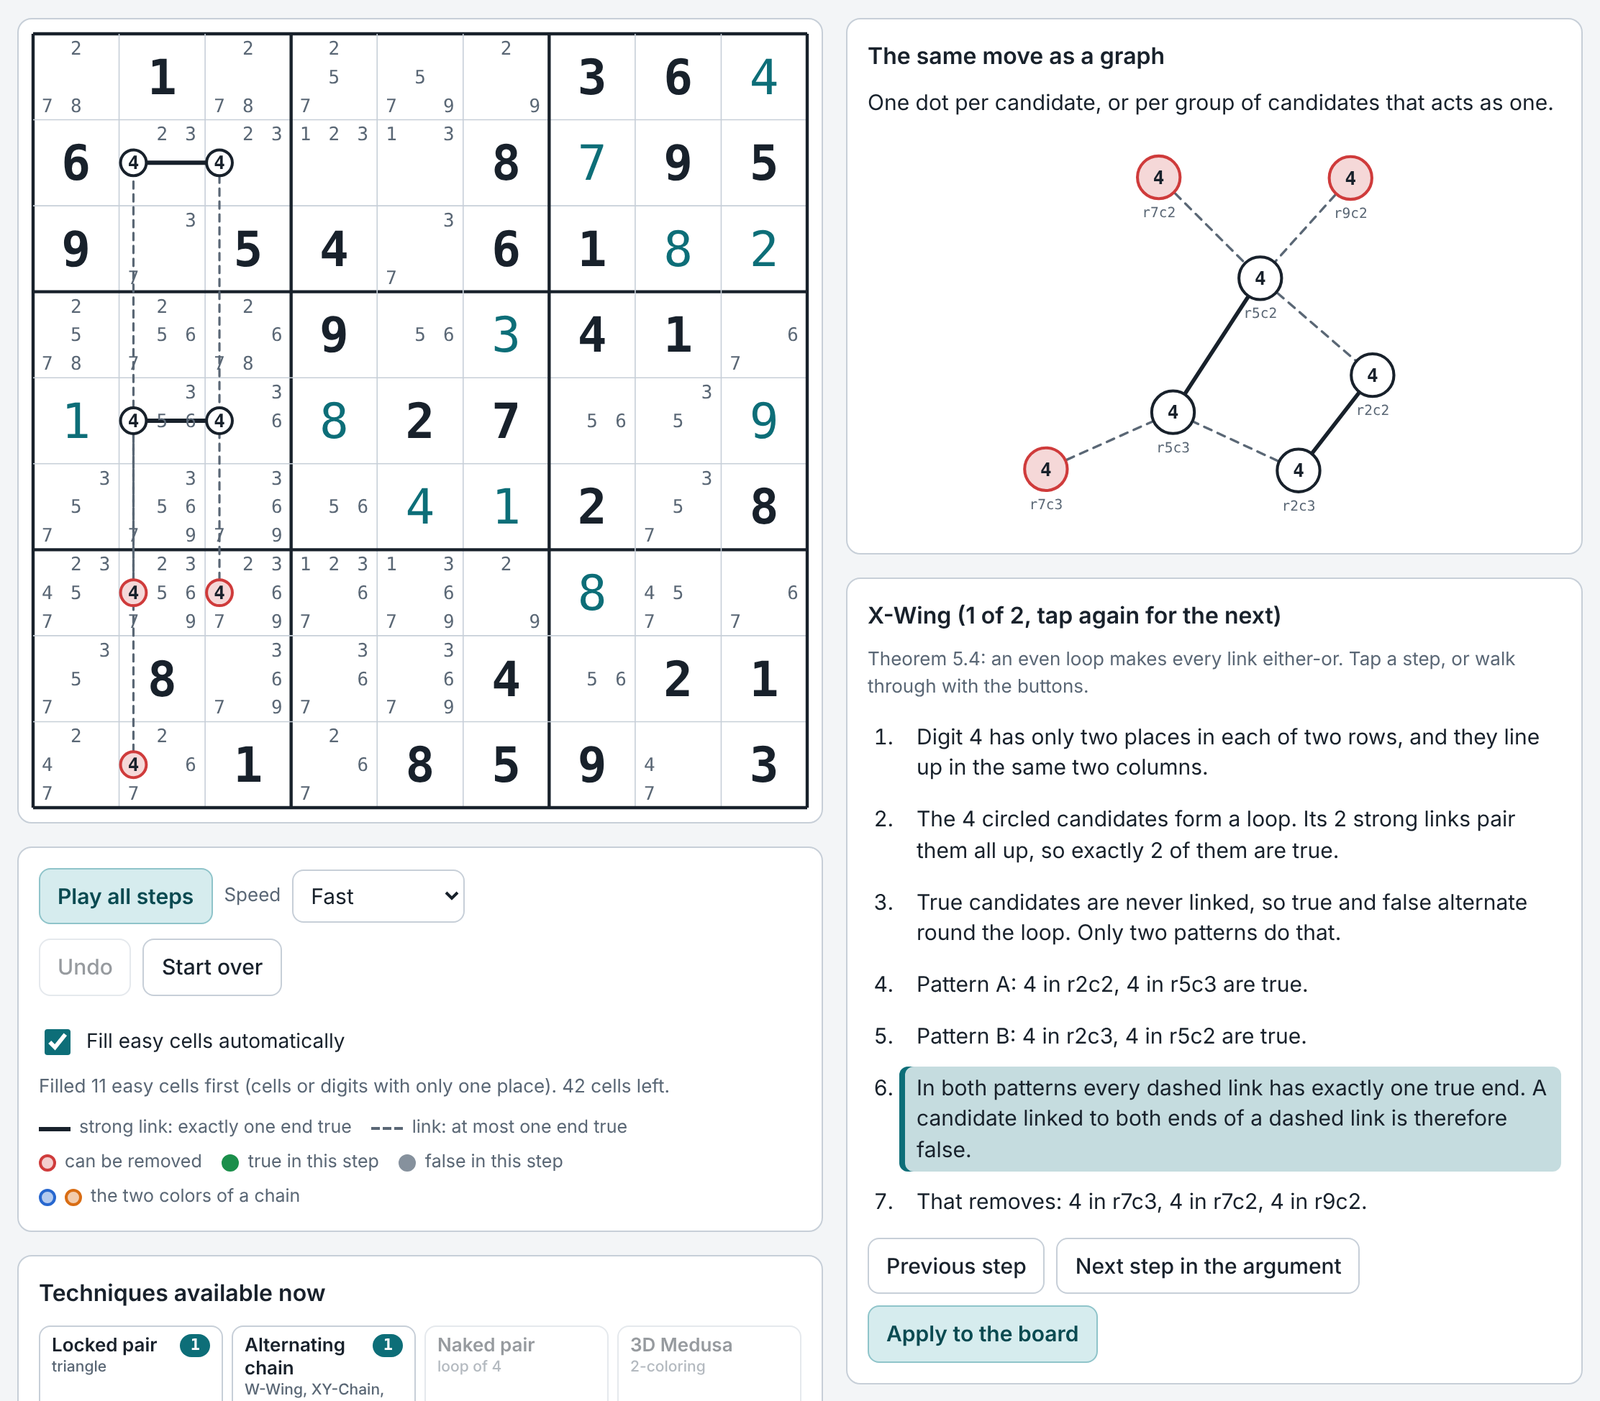
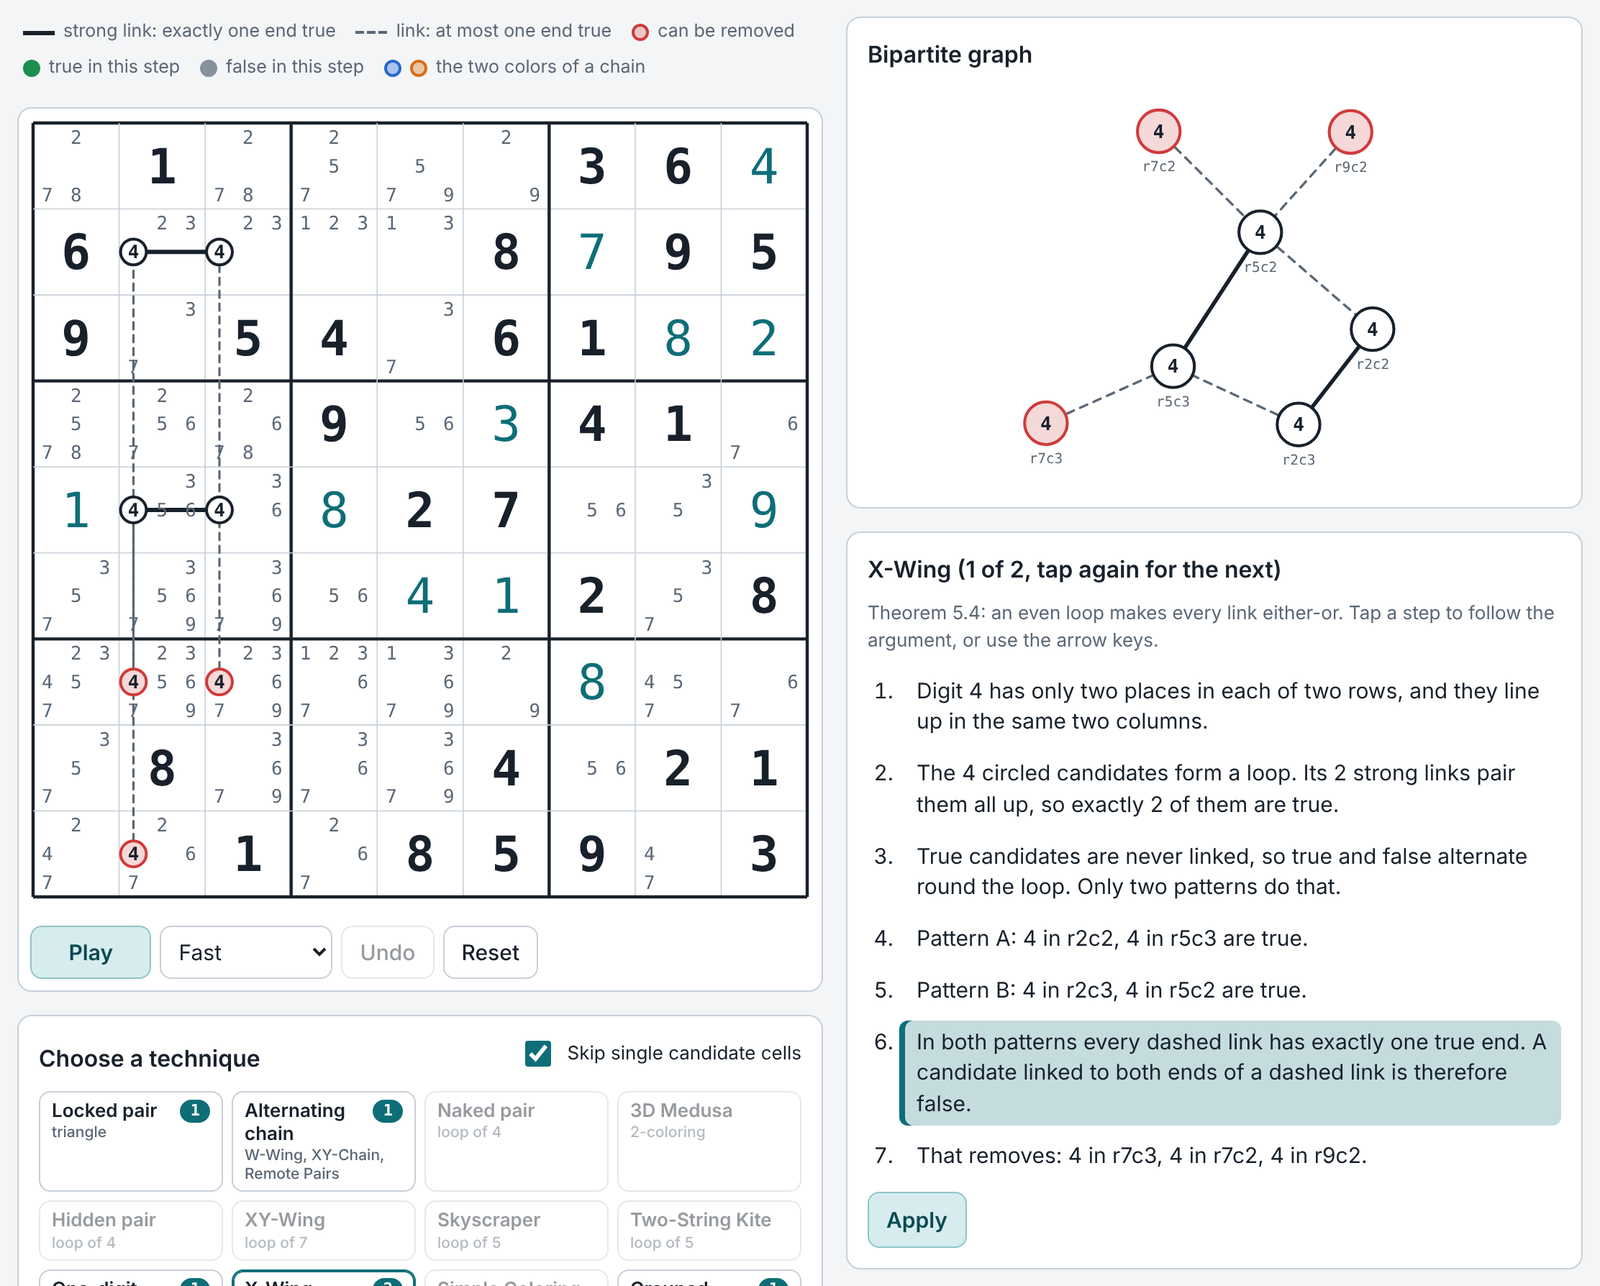
Compact layout: controls under the board, key above it, links picker merged
- Play, speed, Undo and Reset share one row inside the board card;
  Start over is now Reset. The running commentary is hidden (screen
  readers still get it) and only problems are shown.
- The key sits above the board; on a phone it scrolls away while the
  board and its controls stay in view.
- The skip switch and the digit picker moved into the techniques card;
  the separate links section is gone.
- Unique rectangle and Trial and error share one row.
- The graph card is titled Bipartite graph, without the note.

Claude-Session: https://claude.ai/code/session_0161PMRBv2Fxor83Lofabj9S

diff --git a/index.html b/index.html
@@ -36,6 +36,18 @@ p { margin: 0; }
 @media (min-width: 900px) { .cols { grid-template-columns: minmax(0, 560px) minmax(0, 1fr); } }
 .stack { display: flex; flex-direction: column; gap: 16px; min-width: 0; }
 .board { padding: 8px; }
+.board .controls { margin-top: 8px; gap: 6px; flex-wrap: nowrap; }
+.board .controls select { flex: 0 1 auto; min-width: 0; padding: 7px 6px; }
+.board .controls button { padding: 7px 12px; }
+/* the running commentary stays available to screen readers, but is only shown when something went wrong */
+#status:not(.bad) { position: absolute; width: 1px; height: 1px; overflow: hidden; clip: rect(0 0 0 0); white-space: nowrap; }
+#status.bad { margin: 6px 2px 0; }
+#key { padding: 2px 4px; }
+.tech-head { display: flex; flex-wrap: wrap; align-items: baseline; justify-content: space-between; gap: 4px 12px; }
+.tech-head label.check { margin-top: 0; font-size: 13px; }
+.digits-row { margin-top: 10px; gap: 6px; }
+.digits-row .digits { gap: 4px; }
+.digits-row .digits button { width: 28px; padding: 4px 0; font-size: 13px; }
 @media (max-width: 899px) {
   /* phone: the board stays in view while the steps scroll beneath it */
   .cols, .cols > .stack { display: contents; }
@@ -44,8 +56,8 @@ p { margin: 0; }
 #graph { display: block; width: 100%; height: auto; }
 #graphcard[hidden] { display: none; }
 @media (max-width: 899px) {
-  /* phone: board, then the controls, then the graph */
-  .cols .card { order: 4; } .cols .board { order: 1; } .cols section[aria-label="Moves"] { order: 2; } #graphcard { order: 3; }
+  /* phone: the key (it scrolls away), the board with its controls (it stays), then the graph and the techniques */
+  .cols .card { order: 4; } #key { order: 0; } .cols .board { order: 1; } #graphcard { order: 2; } .cols section[aria-label="Techniques"] { order: 3; }
 }
 .row { display: flex; flex-wrap: wrap; gap: 8px; align-items: center; }
 label { font-size: 13px; color: var(--muted); }
@@ -134,38 +146,36 @@ svg .landing { animation: landing var(--dur, 1100ms) ease-in-out; }
 
   <div class="cols">
     <div class="stack">
+      <div class="legend" id="key" aria-label="Key">
+        <span><i class="sw"></i>strong link: exactly one end true</span>
+        <span><i class="sw weak"></i>link: at most one end true</span>
+        <span><i class="dot o"></i>can be removed</span>
+        <span><i class="dot t"></i>true in this step</span>
+        <span><i class="dot f"></i>false in this step</span>
+        <span><i class="dot a"></i><i class="dot b"></i>the two colors of a chain</span>
+      </div>
       <section class="card board" aria-label="Board">
         <svg id="grid" viewBox="0 0 544 544" role="img" aria-label="Sudoku board with candidates"></svg>
-      </section>
-      <section class="card" aria-label="Moves">
-        <div class="row">
+        <div class="row controls">
           <button id="play" type="button" class="primary" aria-pressed="false">Play</button>
-          <label for="speed">Speed</label>
           <select id="speed" aria-label="Playback speed">
             <option value="1700">Slow</option>
             <option value="600">Normal</option>
             <option value="250" selected>Fast</option>
             <option value="1000" data-skip="1">Moves only</option>
           </select>
-        </div>
-        <div class="row">
           <button id="undo" type="button">Undo</button>
-          <button id="reset" type="button">Start over</button>
+          <button id="reset" type="button">Reset</button>
         </div>
-        <label class="check"><input type="checkbox" id="autofill" checked> Skip single candidate cells</label>
         <p class="msg" id="status" role="status"></p>
-        <div class="legend" aria-label="Key">
-          <span><i class="sw"></i>strong link: exactly one end true</span>
-          <span><i class="sw weak"></i>link: at most one end true</span>
-          <span><i class="dot o"></i>can be removed</span>
-          <span><i class="dot t"></i>true in this step</span>
-          <span><i class="dot f"></i>false in this step</span>
-          <span><i class="dot a"></i><i class="dot b"></i>the two colors of a chain</span>
-        </div>
       </section>
       <section class="card" aria-label="Techniques">
-        <h2>Choose a technique</h2>
+        <div class="tech-head">
+          <h2>Choose a technique</h2>
+          <label class="check"><input type="checkbox" id="autofill" checked> Skip single candidate cells</label>
+        </div>
         <div class="techs" id="techs"></div>
+        <div class="row digits-row"><span class="theorem">Strong links of a digit:</span><span class="row digits" id="digits"></span><span class="theorem">or tap a candidate on the board.</span></div>
       </section>
     </div>
 
@@ -173,8 +183,7 @@ svg .landing { animation: landing var(--dur, 1100ms) ease-in-out; }
 
 
       <section class="card" id="graphcard" aria-label="The move as a graph">
-        <h2>The same move as a graph</h2>
-        <p class="sub" id="graphnote">One dot per candidate, or per group of candidates that acts as one.</p>
+        <h2>Bipartite graph</h2>
         <svg id="graph" viewBox="0 0 520 300" role="img" aria-label="The current move drawn as a graph"></svg>
       </section>
 
@@ -187,11 +196,6 @@ svg .landing { animation: landing var(--dur, 1100ms) ease-in-out; }
         </div>
       </section>
 
-      <section class="card" aria-label="Explore links">
-        <h2>Look at the links yourself</h2>
-        <p class="theorem">Tap any candidate on the board to see everything it is linked to. Or pick a digit to see its strong links, colored in two colors.</p>
-        <div class="row digits" id="digits"></div>
-      </section>
     </div>
   </div>
 </div>
@@ -1250,13 +1254,13 @@ svg .landing { animation: landing var(--dur, 1100ms) ease-in-out; }
   function scan() { avail = {}; var any = false; E.TECHNIQUES.forEach(function (t) { avail[t.key] = E.solved(st) || ((t.lastResort || t.late) && any) ? [] : t.find(st); if (avail[t.key].length) any = true; }); }
   function drawTechs() {
     var h = '';
-    var section = '', heads = { count: 'Counting across sets (the sets rule): used when no loop or coloring applies', unique: 'Needs one more fact: the puzzle has exactly one solution', last: 'Last resort: not a loop, a coloring or a count' };
+    var section = '', heads = { count: 'Counting across sets (the sets rule): used when no loop or coloring applies', unique: 'Outside the coloring: needs the one-solution fact, or a guess as the last resort', last: null };
     /* shown by section, and inside a section from most used to least; the order they are tried in stays simplest first */
     var rankSec = { count: 1, unique: 2, last: 3 }, shown = E.TECHNIQUES.map(function (t, i) { return { t: t, i: i }; }).sort(function (a, b) {
       return (a.t.easy ? -1 : rankSec[a.t.section] || 0) - (b.t.easy ? -1 : rankSec[b.t.section] || 0) || (b.t.used || 0) - (a.t.used || 0) || a.i - b.i; }).map(function (x) { return x.t; });
     shown.forEach(function (t) {
       if (t.easy && autoFill) return;
-      if (t.section && t.section !== section) { section = t.section; h += '<p class="beyond">' + heads[section] + '</p>'; }
+      if (t.section && t.section !== section) { section = t.section; if (heads[section]) h += '<p class="beyond">' + heads[section] + '</p>'; }
       var n = avail[t.key].length, on = view.kind === 'result' && view.tech === t.key;
       h += '<button type="button" class="tech" data-key="' + t.key + '" aria-pressed="' + on + '"' + (n ? '' : ' disabled') + ' title="' + t.blurb + '"><span class="n">' + t.name + (n ? '<span class="c">' + n + '</span>' : '') + '</span><span class="k">' + t.loop + '</span></button>';
     });

diff --git a/src/index.src.html b/src/index.src.html
@@ -36,6 +36,18 @@ p { margin: 0; }
 @media (min-width: 900px) { .cols { grid-template-columns: minmax(0, 560px) minmax(0, 1fr); } }
 .stack { display: flex; flex-direction: column; gap: 16px; min-width: 0; }
 .board { padding: 8px; }
+.board .controls { margin-top: 8px; gap: 6px; flex-wrap: nowrap; }
+.board .controls select { flex: 0 1 auto; min-width: 0; padding: 7px 6px; }
+.board .controls button { padding: 7px 12px; }
+/* the running commentary stays available to screen readers, but is only shown when something went wrong */
+#status:not(.bad) { position: absolute; width: 1px; height: 1px; overflow: hidden; clip: rect(0 0 0 0); white-space: nowrap; }
+#status.bad { margin: 6px 2px 0; }
+#key { padding: 2px 4px; }
+.tech-head { display: flex; flex-wrap: wrap; align-items: baseline; justify-content: space-between; gap: 4px 12px; }
+.tech-head label.check { margin-top: 0; font-size: 13px; }
+.digits-row { margin-top: 10px; gap: 6px; }
+.digits-row .digits { gap: 4px; }
+.digits-row .digits button { width: 28px; padding: 4px 0; font-size: 13px; }
 @media (max-width: 899px) {
   /* phone: the board stays in view while the steps scroll beneath it */
   .cols, .cols > .stack { display: contents; }
@@ -44,8 +56,8 @@ p { margin: 0; }
 #graph { display: block; width: 100%; height: auto; }
 #graphcard[hidden] { display: none; }
 @media (max-width: 899px) {
-  /* phone: board, then the controls, then the graph */
-  .cols .card { order: 4; } .cols .board { order: 1; } .cols section[aria-label="Moves"] { order: 2; } #graphcard { order: 3; }
+  /* phone: the key (it scrolls away), the board with its controls (it stays), then the graph and the techniques */
+  .cols .card { order: 4; } #key { order: 0; } .cols .board { order: 1; } #graphcard { order: 2; } .cols section[aria-label="Techniques"] { order: 3; }
 }
 .row { display: flex; flex-wrap: wrap; gap: 8px; align-items: center; }
 label { font-size: 13px; color: var(--muted); }
@@ -134,38 +146,36 @@ svg .landing { animation: landing var(--dur, 1100ms) ease-in-out; }
 
   <div class="cols">
     <div class="stack">
+      <div class="legend" id="key" aria-label="Key">
+        <span><i class="sw"></i>strong link: exactly one end true</span>
+        <span><i class="sw weak"></i>link: at most one end true</span>
+        <span><i class="dot o"></i>can be removed</span>
+        <span><i class="dot t"></i>true in this step</span>
+        <span><i class="dot f"></i>false in this step</span>
+        <span><i class="dot a"></i><i class="dot b"></i>the two colors of a chain</span>
+      </div>
       <section class="card board" aria-label="Board">
         <svg id="grid" viewBox="0 0 544 544" role="img" aria-label="Sudoku board with candidates"></svg>
-      </section>
-      <section class="card" aria-label="Moves">
-        <div class="row">
+        <div class="row controls">
           <button id="play" type="button" class="primary" aria-pressed="false">Play</button>
-          <label for="speed">Speed</label>
           <select id="speed" aria-label="Playback speed">
             <option value="1700">Slow</option>
             <option value="600">Normal</option>
             <option value="250" selected>Fast</option>
             <option value="1000" data-skip="1">Moves only</option>
           </select>
-        </div>
-        <div class="row">
           <button id="undo" type="button">Undo</button>
-          <button id="reset" type="button">Start over</button>
+          <button id="reset" type="button">Reset</button>
         </div>
-        <label class="check"><input type="checkbox" id="autofill" checked> Skip single candidate cells</label>
         <p class="msg" id="status" role="status"></p>
-        <div class="legend" aria-label="Key">
-          <span><i class="sw"></i>strong link: exactly one end true</span>
-          <span><i class="sw weak"></i>link: at most one end true</span>
-          <span><i class="dot o"></i>can be removed</span>
-          <span><i class="dot t"></i>true in this step</span>
-          <span><i class="dot f"></i>false in this step</span>
-          <span><i class="dot a"></i><i class="dot b"></i>the two colors of a chain</span>
-        </div>
       </section>
       <section class="card" aria-label="Techniques">
-        <h2>Choose a technique</h2>
+        <div class="tech-head">
+          <h2>Choose a technique</h2>
+          <label class="check"><input type="checkbox" id="autofill" checked> Skip single candidate cells</label>
+        </div>
         <div class="techs" id="techs"></div>
+        <div class="row digits-row"><span class="theorem">Strong links of a digit:</span><span class="row digits" id="digits"></span><span class="theorem">or tap a candidate on the board.</span></div>
       </section>
     </div>
 
@@ -173,8 +183,7 @@ svg .landing { animation: landing var(--dur, 1100ms) ease-in-out; }
 
 
       <section class="card" id="graphcard" aria-label="The move as a graph">
-        <h2>The same move as a graph</h2>
-        <p class="sub" id="graphnote">One dot per candidate, or per group of candidates that acts as one.</p>
+        <h2>Bipartite graph</h2>
         <svg id="graph" viewBox="0 0 520 300" role="img" aria-label="The current move drawn as a graph"></svg>
       </section>
 
@@ -187,11 +196,6 @@ svg .landing { animation: landing var(--dur, 1100ms) ease-in-out; }
         </div>
       </section>
 
-      <section class="card" aria-label="Explore links">
-        <h2>Look at the links yourself</h2>
-        <p class="theorem">Tap any candidate on the board to see everything it is linked to. Or pick a digit to see its strong links, colored in two colors.</p>
-        <div class="row digits" id="digits"></div>
-      </section>
     </div>
   </div>
 </div>
@@ -365,13 +369,13 @@ svg .landing { animation: landing var(--dur, 1100ms) ease-in-out; }
   function scan() { avail = {}; var any = false; E.TECHNIQUES.forEach(function (t) { avail[t.key] = E.solved(st) || ((t.lastResort || t.late) && any) ? [] : t.find(st); if (avail[t.key].length) any = true; }); }
   function drawTechs() {
     var h = '';
-    var section = '', heads = { count: 'Counting across sets (the sets rule): used when no loop or coloring applies', unique: 'Needs one more fact: the puzzle has exactly one solution', last: 'Last resort: not a loop, a coloring or a count' };
+    var section = '', heads = { count: 'Counting across sets (the sets rule): used when no loop or coloring applies', unique: 'Outside the coloring: needs the one-solution fact, or a guess as the last resort', last: null };
     /* shown by section, and inside a section from most used to least; the order they are tried in stays simplest first */
     var rankSec = { count: 1, unique: 2, last: 3 }, shown = E.TECHNIQUES.map(function (t, i) { return { t: t, i: i }; }).sort(function (a, b) {
       return (a.t.easy ? -1 : rankSec[a.t.section] || 0) - (b.t.easy ? -1 : rankSec[b.t.section] || 0) || (b.t.used || 0) - (a.t.used || 0) || a.i - b.i; }).map(function (x) { return x.t; });
     shown.forEach(function (t) {
       if (t.easy && autoFill) return;
-      if (t.section && t.section !== section) { section = t.section; h += '<p class="beyond">' + heads[section] + '</p>'; }
+      if (t.section && t.section !== section) { section = t.section; if (heads[section]) h += '<p class="beyond">' + heads[section] + '</p>'; }
       var n = avail[t.key].length, on = view.kind === 'result' && view.tech === t.key;
       h += '<button type="button" class="tech" data-key="' + t.key + '" aria-pressed="' + on + '"' + (n ? '' : ' disabled') + ' title="' + t.blurb + '"><span class="n">' + t.name + (n ? '<span class="c">' + n + '</span>' : '') + '</span><span class="k">' + t.loop + '</span></button>';
     });

diff --git a/test/smoke.js b/test/smoke.js
@@ -90,7 +90,7 @@ const loadSample = i => { sel.value = String(i); sel.dispatchEvent(new dom.windo
   loadSample(0);
   if (play.disabled) throw new Error('play is disabled on a fresh puzzle');
   if (play.textContent !== 'Play') throw new Error('fresh puzzle: button says ' + play.textContent);
-  if (!(play.compareDocumentPosition($('undo')) & dom.window.Node.DOCUMENT_POSITION_FOLLOWING) || !($('speed').compareDocumentPosition($('undo')) & dom.window.Node.DOCUMENT_POSITION_FOLLOWING)) throw new Error('play and speed are not above the manual buttons');
+  if (play.parentNode !== $('undo').parentNode || play.parentNode !== $('speed').parentNode || $('reset').textContent !== 'Reset' || !play.closest('.board')) throw new Error('Play, speed, Undo and Reset should share one row inside the board card');
   const speeds = [...$('speed').options].map(o => o.textContent + '=' + o.value + (o.selected ? '*' : '')).join(' ');
   if (speeds !== 'Slow=1700 Normal=600 Fast=250* Moves only=1000') throw new Error('unexpected speeds: ' + speeds);
   click(play);
@@ -238,7 +238,7 @@ const loadSample = i => { sel.value = String(i); sel.dispatchEvent(new dom.windo
   }
   const xz = [...sel.options].find(o => o.textContent === 'XYZ-Wing'); sel.value = xz.value; sel.dispatchEvent(new dom.window.Event('change', { bubbles: true }));
   if ($('tname').textContent.indexOf('XYZ-Wing') !== 0 || $('grid').querySelectorAll('.group').length > 1 || !$('grid').querySelector('circle[stroke="var(--k0)"]')) throw new Error('the XYZ-Wing does not show its group dot');
-  if (document.querySelectorAll('#techs .beyond').length !== 3) throw new Error('expected three dividers: counting, one-solution, last resort');
+  if (document.querySelectorAll('#techs .beyond').length !== 2) throw new Error('expected two dividers: counting, and outside the coloring');
   // 6j. the easy-cell switch and "Random easy sudoku"
   const auto = $('autofill'), easyBtn = () => document.querySelector('#techs button[data-key=single]');
   loadSample(4);

diff --git a/README.md b/README.md
@@ -63,8 +63,8 @@ Open `index.html` directly; it needs no server and no build step.
 - Only proper sudokus load: no digit twice in a row, column or box, and exactly one solution. Anything else is refused with the reason.
 - Choose a technique to see a move of that kind. Each move lists the chain of forced steps behind it; tap a step (or use the arrow keys) and the board marks candidates true or false. **Apply** carries the move out.
 - **Play** solves the puzzle by itself, one move after another. Each candidate that goes is circled in red, struck through and then fades from the board. Choose a speed, or pick *Moves only* to skip the reasoning and just watch the loops and removals. Tap the board to pause.
-- **The same move as a graph**: beside the board (below the play controls on a phone) the current move is redrawn as a plain graph, with the dots spread out and a group shown as one dot. It carries the same colors as the board and steps along with it, so the move reads as what it is: a two-coloring problem.
-- Tap any candidate on the board to see everything it is linked to. Pick a digit to see its strong links colored in two colors.
+- **Bipartite graph**: beside the board (below the play controls on a phone) the current move is redrawn as a plain graph, with the dots spread out and a group shown as one dot. It carries the same colors as the board and steps along with it, so the move reads as what it is: a two-coloring problem.
+- Tap any candidate on the board to see everything it is linked to, or pick a digit under the techniques to see its strong links. Pick a digit to see its strong links colored in two colors.
 
 Techniques it finds: locked pair, naked pair, hidden pair, X-Wing, Skyscraper, Two-String Kite, XY-Wing, Simple Coloring, one-digit odd loops (Turbot Fish, X-Cycle), 3D Medusa, and general alternating chains (which include W-Wing and XY-Chain).
 
